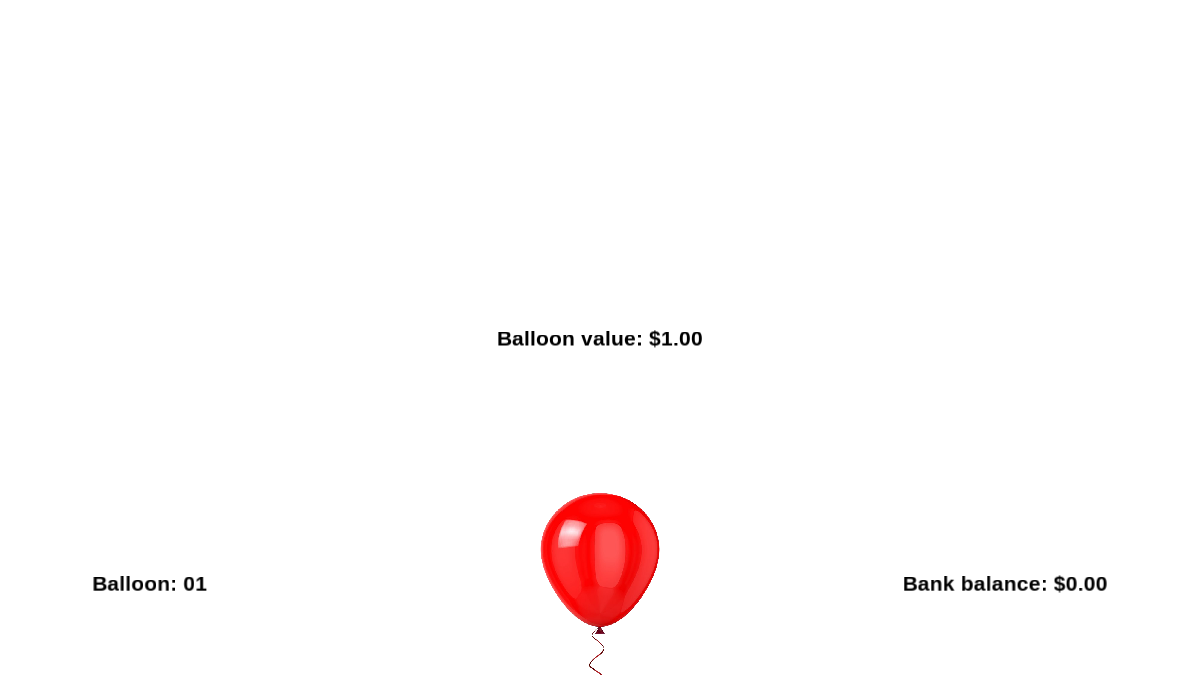
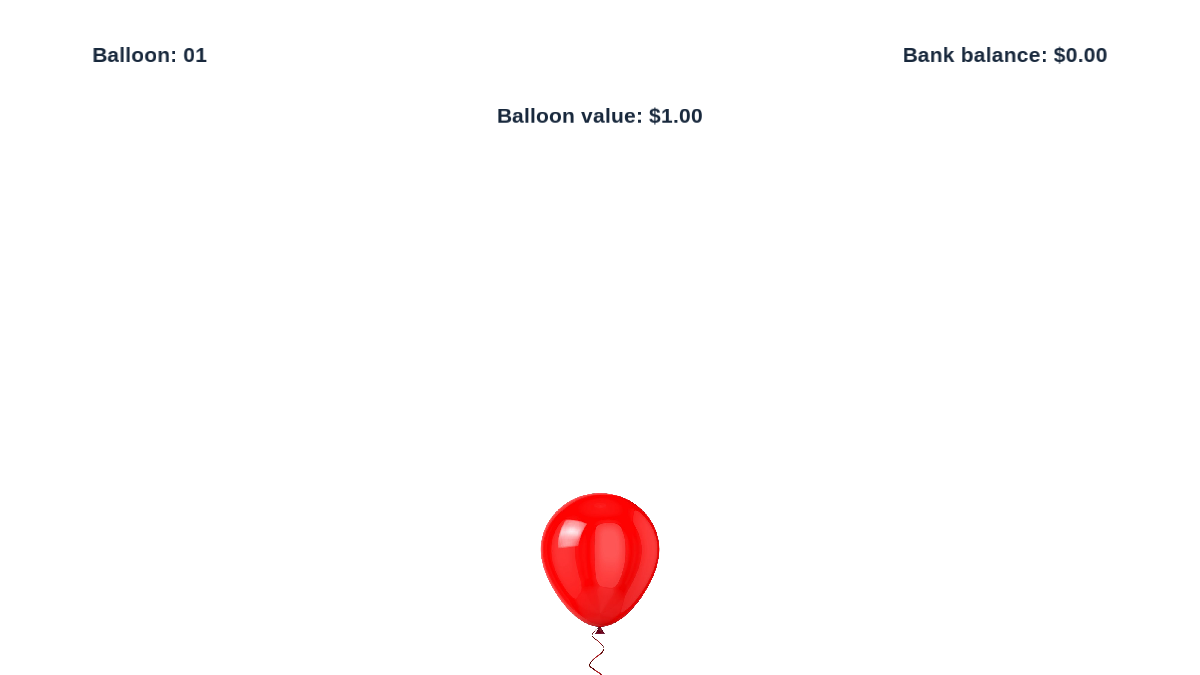
Refresh genuine task screenshots for the redesigned interface

diff --git a/docs/screenshots/README.md b/docs/screenshots/README.md
@@ -2,7 +2,7 @@
 
 These screenshots are real frames rendered by PsychoPy 2026.2.4 on a disposable
 Ubuntu GitHub-hosted runner using an Xvfb virtual display and software OpenGL.
-They use the application's existing English task and survey rendering functions,
+They use the application's current English task and survey rendering functions,
 with scripted input and synthetic responses. No participant information is present.
 Nothing was installed on the owner's machine.
 
@@ -12,8 +12,12 @@ VLC video playback or the participant dialog. Video content was not captured.
 The SAM demonstration selects 5 on both scales. The IGT chooses deck 1 for five
 trials with seeded randomness. BART collects one balloon after twenty pumps,
 with audio muted. Exact runtime/source details are in [provenance.json](provenance.json).
-The [successful hosted run](https://github.com/Roobahist/bart_igt/actions/runs/38170869645)
+The [successful hosted run](https://github.com/Roobahist/bart_igt/actions/runs/38171823962)
 used PsychoPy 2026.2.4 and Python 3.11.17.
+
+The task redesign replaces the black IGT face and detached feedback bars with
+a light selected card containing gain/loss labels and amounts. See
+[the design decisions](../ui-design.md) for rationale and protocol implications.
 
 ## Screens
 
